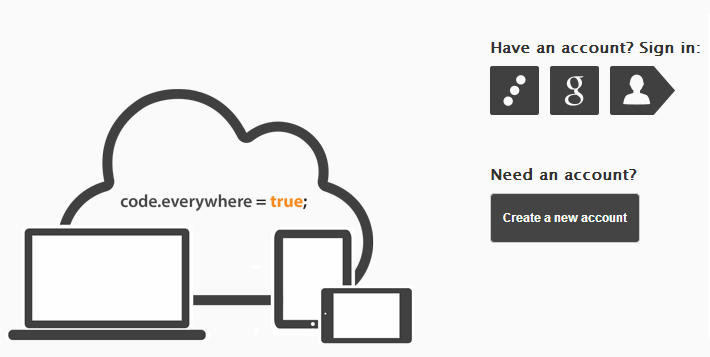
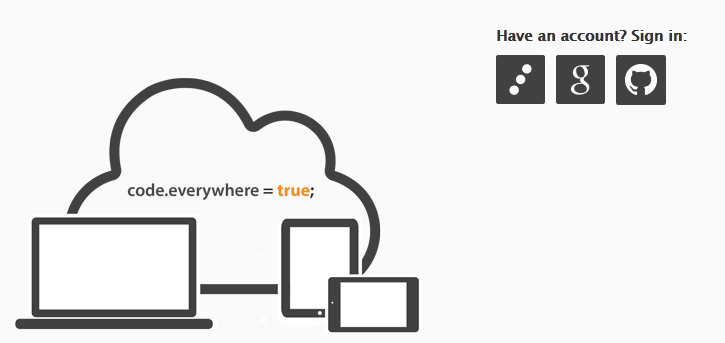
Fixed the documentation to include OAuth

diff --git a/bundles/org.eclipse.orion.client.help/web/helpContent/Orion User Guide/Getting Started.md b/bundles/org.eclipse.orion.client.help/web/helpContent/Orion User Guide/Getting Started.md
@@ -17,8 +17,8 @@ When you attempt to access a page that requires logging in, you'll be redirected
 On your first visit to the login page, you can sign in using either of these ways:
 
 * Sign in using the username and password of your Orion account.
-* Sign in using a Mozilla Persona. To do this, your Persona email address must be the same as the email address you chose when creating your Orion account. You can sign up for a Persona [here](https://persona.org).
-* Sign in with a linked Google account. To link a Google account, use Orion's [Settings page](http://wiki.eclipse.org/Orion/Documentation/User_Guide/Reference/Settings_page "Orion/Documentation/User_Guide/Reference/Settings_page").
+* Sign in with a linked Google account. To link a Google account to an existing Orion account, use Orion's [Settings page](http://wiki.eclipse.org/Orion/Documentation/User_Guide/Reference/Settings_page "Orion/Documentation/User_Guide/Reference/Settings_page").
+* Sign in with a linked GitHub account. To link a Github account to an existing Orion account, use Orion's [Settings page](http://wiki.eclipse.org/Orion/Documentation/User_Guide/Reference/Settings_page "Orion/Documentation/User_Guide/Reference/Settings_page").
 
 If you are accessing a server other than OrionHub or localhost, the server administrator may have disallowed you from creating an account on the Login Page. In that case, you'll have to ask the server administrator to create one for you.
 
